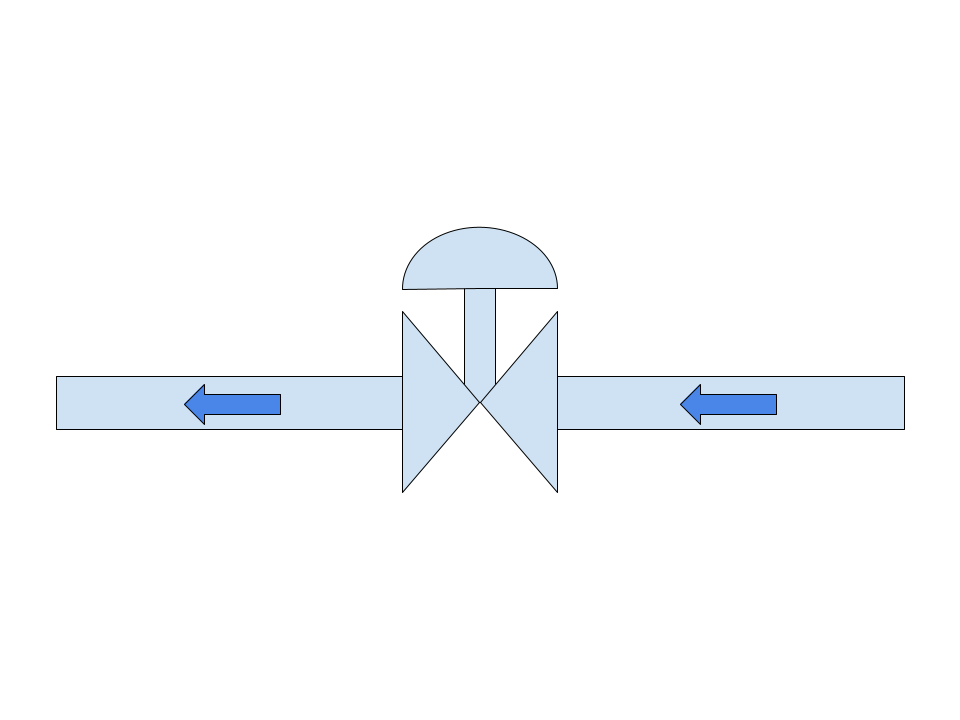
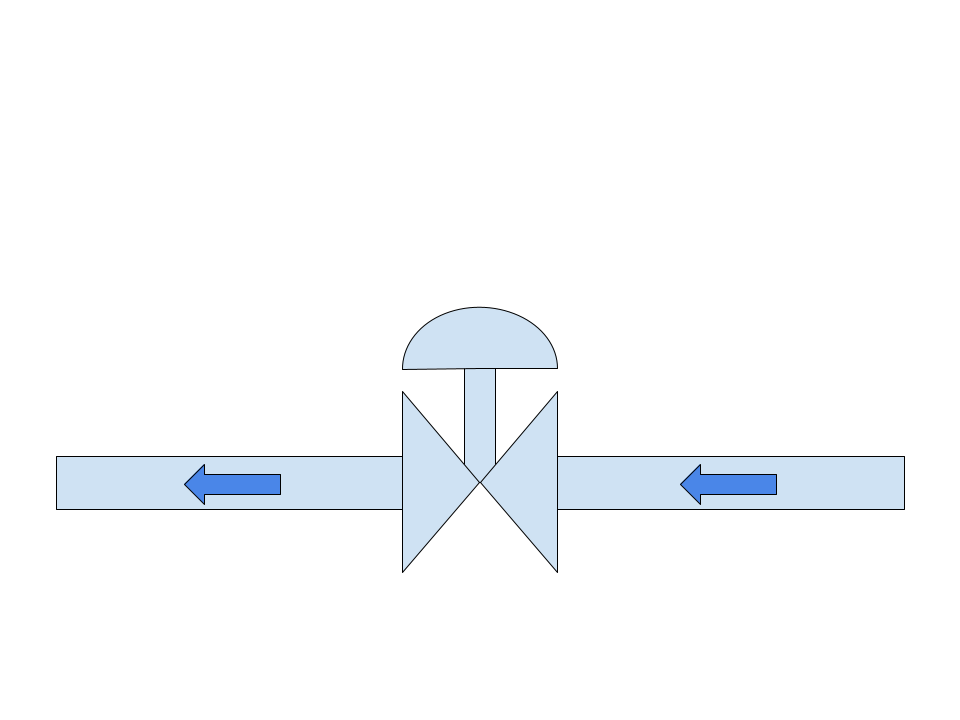
update flow_valve nano hmi

Changed region(s): [[0.0312, 0.3056, 0.9688, 0.7944]]

diff --git a/hmi/nano/flow_valve/app.py b/hmi/nano/flow_valve/app.py
@@ -11,6 +11,11 @@ from lib.modbus import FloatModbusClient
 from lib.flow_coefficient import valve_flow
 import numpy as np
 import tkinter as tk
+from tkinter import ttk
+from matplotlib.figure import Figure
+from matplotlib.backends.backend_tkagg import FigureCanvasTkAgg
+from matplotlib.animation import FuncAnimation
+from matplotlib import style
 
 
 # some class
@@ -23,11 +28,13 @@ class Share:
     p_amont_vl = None
     p_aval_vl = None
     pos_vl = None
+    sp_p_aval = None
     q_vl = None
     p_amont_vl_stack = deque(maxlen=360)
     p_aval_vl_stack = deque(maxlen=360)
     pos_vl_stack = deque(maxlen=360)
     q_vl_stack = deque(maxlen=360)
+    sp_p_aval_stack = deque(maxlen=360)
 
     @classmethod
     def mbus_poll_thread(cls):
@@ -43,21 +50,19 @@ class Share:
         # polling loop
         while True:
             # do modbus reading on socket
-            read_flt_l = fmc.read_float(0, 3)
+            rfloat_d = dict()
+            for addr in (804, 808, 812, 816):
+                result = fmc.read_float(addr)
+                rfloat_d[addr] = result[0] if result is not None else None
             # if read is ok, store result in regs (with thread lock)
             with cls.lock:
-                if read_flt_l:
-                    cls.p_amont_vl = read_flt_l[0]
-                    cls.p_aval_vl = read_flt_l[1]
-                    cls.pos_vl = read_flt_l[2]
-                    try:
-                        cls.q_vl = (valve_flow(abs(cv_poly(cls.pos_vl)), cls.p_amont_vl, cls.p_aval_vl))
-                    except (ValueError, TypeError):
-                        cls.q_vl = None
-                else:
-                    cls.p_amont_vl = None
-                    cls.p_aval_vl = None
-                    cls.pos_vl = None
+                cls.p_amont_vl = rfloat_d.get(804)
+                cls.p_aval_vl = rfloat_d.get(808)
+                cls.pos_vl = rfloat_d.get(812)
+                cls.sp_p_aval = rfloat_d.get(816)
+                try:
+                    cls.q_vl = (valve_flow(max(cv_poly(cls.pos_vl), 0.0), cls.p_amont_vl, cls.p_aval_vl))
+                except (ValueError, TypeError):
                     cls.q_vl = None
                 # feed the stacks every 10s
                 if time.monotonic() - last_q_feed_t > 10.0:
@@ -70,13 +75,74 @@ class Share:
             time.sleep(1.0)
 
 
-class HmiApp(tk.Tk):
-    """Tk HMI app"""
+class TrendPamontFrame(tk.Frame):
+    # some const
+    WIDTH = 400
+    HEIGHT = 300
+    DPI = 120
 
-    def __init__(self, *args, **kwargs):
-        tk.Tk.__init__(self, *args, **kwargs)
-        # configure main window
-        self.wm_title('Nano HMI flow valve')
+    def __init__(self, parent, *args, **kwargs):
+        super().__init__(parent, *args, **kwargs)
+        self.parent = parent
+        # init matplotlib graph
+        style.use('ggplot')
+        self.fig = Figure(figsize=(self.WIDTH/self.DPI, self.HEIGHT/self.DPI), dpi=self.DPI)
+        self.plt = self.fig.add_subplot()
+        self.fig.set_tight_layout(True)
+        # add animate graph widget to tk app
+        graph = FigureCanvasTkAgg(self.fig, master=self)
+        self.can_graph = graph.get_tk_widget()
+        self.can_graph.pack()
+        # init plot refresh function
+        self.func_anim = FuncAnimation(self.fig, self.update_graph, interval=1000)
+
+    def update_graph(self, _):
+        # decrease CPU usage if not mapped
+        if self.winfo_ismapped():
+            self.plt.clear()
+            self.plt.set_ylabel('bars')
+            with Share.lock:
+                self.plt.plot(Share.p_amont_vl_stack, 'r-')
+
+
+class TrendPavalFrame(tk.Frame):
+    # some const
+    WIDTH = 400
+    HEIGHT = 300
+    DPI = 120
+
+    def __init__(self, parent, *args, **kwargs):
+        # heritage stuff
+        super().__init__(parent, *args, **kwargs)
+        self.parent = parent
+        # init matplotlib graph
+        style.use('ggplot')
+        self.fig = Figure(figsize=(self.WIDTH/self.DPI, self.HEIGHT/self.DPI), dpi=self.DPI)
+        self.plt = self.fig.add_subplot()
+        self.fig.set_tight_layout(True)
+        # add animate graph widget to tk app
+        graph = FigureCanvasTkAgg(self.fig, master=self)
+        self.can_graph = graph.get_tk_widget()
+        self.can_graph.pack()
+        # init plot refresh function
+        self.func_anim = FuncAnimation(self.fig, self.update_graph, interval=1000)
+
+    def update_graph(self, _):
+        # decrease CPU usage if not mapped
+        if self.winfo_ismapped():
+            self.plt.clear()
+            self.plt.set_ylabel('bars')
+            with Share.lock:
+                self.plt.plot(Share.p_amont_vl_stack, 'b-')
+
+
+class TabSyno(tk.Frame):
+    """Synoptic tab class"""
+
+    def __init__(self, parent, *args, **kwargs):
+        # heritage stuff
+        super().__init__(parent, *args, **kwargs)
+        self.parent = parent
         # add canvas
         self.cvs = tk.Canvas(self, width=960, height=720)
         self.cvs.pack()
@@ -84,35 +150,104 @@ class HmiApp(tk.Tk):
         self._photo_img = tk.PhotoImage(file='img/background.png')
         self.cvs.create_image(0, 0, anchor=tk.NW, image=self._photo_img)
         # add an overlay with text fields
-        self.amt_txt = self.cvs.create_text(733, 340, font=('Helvetica', 36))
-        self.avl_txt = self.cvs.create_text(227, 340, font=('Helvetica', 36))
-        self.pos_txt = self.cvs.create_text(480, 530, font=('Helvetica', 36))
-        self.qvl_txt = self.cvs.create_text(480, 660, font=('Helvetica', 36))
+        self.amt_txt = self.cvs.create_text(733, 430, font=('Helvetica', 36))
+        self.avl_txt = self.cvs.create_text(227, 430, font=('Helvetica', 36))
+        self.pos_txt = self.cvs.create_text(480, 610, font=('Helvetica', 36))
+        self.qvl_txt = self.cvs.create_text(480, 680, font=('Helvetica', 36))
+        # embed matplotlib frame in canvas
+        self.fr_gph_amt = TrendPamontFrame(self)
+        self.cvs.create_window(750, 175, window=self.fr_gph_amt)
+        self.fr_gph_avl = TrendPavalFrame(self)
+        self.cvs.create_window(200, 175, window=self.fr_gph_avl)
         # start widget update loop
         self.after(ms=500, func=self.txt_update_loop)
-        # start csv export loop
-        self.after(ms=2000, func=self.csv_export_loop)
 
     def txt_update_loop(self):
-        # define widget update list
-        widgets_l = [(self.amt_txt, '%.2f bars', Share.p_amont_vl, 0.0),
-                     (self.avl_txt, '%.2f bars', Share.p_aval_vl, 0.0),
-                     (self.pos_txt, '%.2f %%', Share.pos_vl, 0.0),
-                     (self.qvl_txt, 'Estimation débit VL %.0f nm3/h', Share.q_vl, 0),]
-        # update text widgets
-        with Share.lock:
-            for wdg_txt, fmt, current_val, default_val in widgets_l:
-                # fill text widget with current values or set text as red
-                if current_val is None:
-                    self.cvs.itemconfig(wdg_txt, fill='red')
-                else:
-                    self.cvs.itemconfig(wdg_txt, text=fmt % current_val)
-                    self.cvs.itemconfig(wdg_txt, fill='black')
-                # avoid empty text area
-                if not self.cvs.itemcget(wdg_txt, 'text'):
-                    self.cvs.itemconfig(wdg_txt, text=fmt % default_val)
+        # decrease CPU usage if not mapped
+        if self.winfo_ismapped():
+            # define widget update list
+            widgets_l = [(self.amt_txt, '%.2f bars', Share.p_amont_vl, 0.0),
+                         (self.avl_txt, '%.2f bars', Share.p_aval_vl, 0.0),
+                         (self.pos_txt, '%.2f %%', Share.pos_vl, 0.0),
+                         (self.qvl_txt, 'Estimation débit VL %.0f nm3/h', Share.q_vl, 0),]
+            # update text widgets
+            with Share.lock:
+                for wdg_txt, fmt, current_val, default_val in widgets_l:
+                    # fill text widget with current values or set text as red
+                    if current_val is None:
+                        self.cvs.itemconfig(wdg_txt, fill='red')
+                    else:
+                        self.cvs.itemconfig(wdg_txt, text=fmt % current_val)
+                        self.cvs.itemconfig(wdg_txt, fill='black')
+                    # avoid empty text area
+                    if not self.cvs.itemcget(wdg_txt, 'text'):
+                        self.cvs.itemconfig(wdg_txt, text=fmt % default_val)
         # refresh txt widgets in 500 ms
         self.after(ms=500, func=self.txt_update_loop)
+
+
+class TabGraph(tk.Frame):
+    # some const
+    WIDTH = 960
+    HEIGHT = 720
+    DPI = 120
+
+    def __init__(self, parent, *args, **kwargs):
+        # heritage stuff
+        super().__init__(parent, *args, **kwargs)
+        self.parent = parent
+        # init matplotlib graph
+        style.use('ggplot')
+        self.fig = Figure(figsize=(self.WIDTH/self.DPI, self.HEIGHT/self.DPI), dpi=self.DPI)
+        self.plt_h = self.fig.add_subplot(211)
+        self.plt_b = self.fig.add_subplot(212)
+        self.fig.set_tight_layout(True)
+        # add animate graph widget to tk app
+        graph = FigureCanvasTkAgg(self.fig, master=self)
+        self.can_graph = graph.get_tk_widget()
+        self.can_graph.pack()
+        # init plot refresh function
+        self.func_anim = FuncAnimation(self.fig, self.update_graph, interval=1000)
+
+    def update_graph(self, _):
+        # decrease CPU usage if not mapped
+        if self.winfo_ismapped():
+            self.plt_h.clear()
+            self.plt_h.set_title('Historique pressions')
+            self.plt_h.set_ylabel('bars')
+            self.plt_b.clear()
+            self.plt_b.set_title('Historique position VL')
+            self.plt_b.set_ylabel('%')
+            with Share.lock:
+                self.plt_h.plot(Share.p_amont_vl_stack, 'r-')
+                self.plt_h.plot(Share.p_aval_vl_stack, 'b-')
+                self.plt_b.plot(Share.pos_vl_stack, 'g-')
+
+
+class HmiApp(tk.Tk):
+    """Tk HMI app"""
+
+    def __init__(self, *args, **kwargs):
+        tk.Tk.__init__(self, *args, **kwargs)
+        # configure main window
+        self.wm_title('Nano HMI flow valve')
+        # build a notebook with tabs
+        self.note = ttk.Notebook(self)
+        self.tab_syno = TabSyno(self.note)
+        self.tab_graph = TabGraph(self.note)
+        self.note.add(self.tab_syno, text='Synoptique (F1)')
+        self.note.add(self.tab_graph, text='Graphiques (F2)')
+        self.note.pack(fill=tk.BOTH, expand=True)
+        # defaut selected tab
+        self.note.select(self.tab_syno)
+        # bind function keys to tabs
+        self.bind('<F1>', lambda evt: self.note.select(self.tab_syno))
+        self.bind('<F2>', lambda evt: self.note.select(self.tab_graph))
+        # add an exit button
+        self.but_exit = tk.Button(self, text="Exit", command=lambda: self.destroy())
+        self.but_exit.pack(side=tk.RIGHT, padx=10, pady=5)
+        # start csv export loop
+        self.after(ms=2000, func=self.csv_export_loop)
 
     def csv_export_loop(self):
         # define the export list [(fieldname, value, nb of digits), ]
@@ -127,6 +262,7 @@ class HmiApp(tk.Tk):
                     csv_d[fieldname] = round(value, digits) if digits else round(value)
                 except TypeError:
                     csv_d[fieldname] = float('nan')
+        # add CSV export dict data to 'export.csv' file
         try:
             with open('export.csv', 'a', newline='') as csv_file:
                 # init CSV writer
